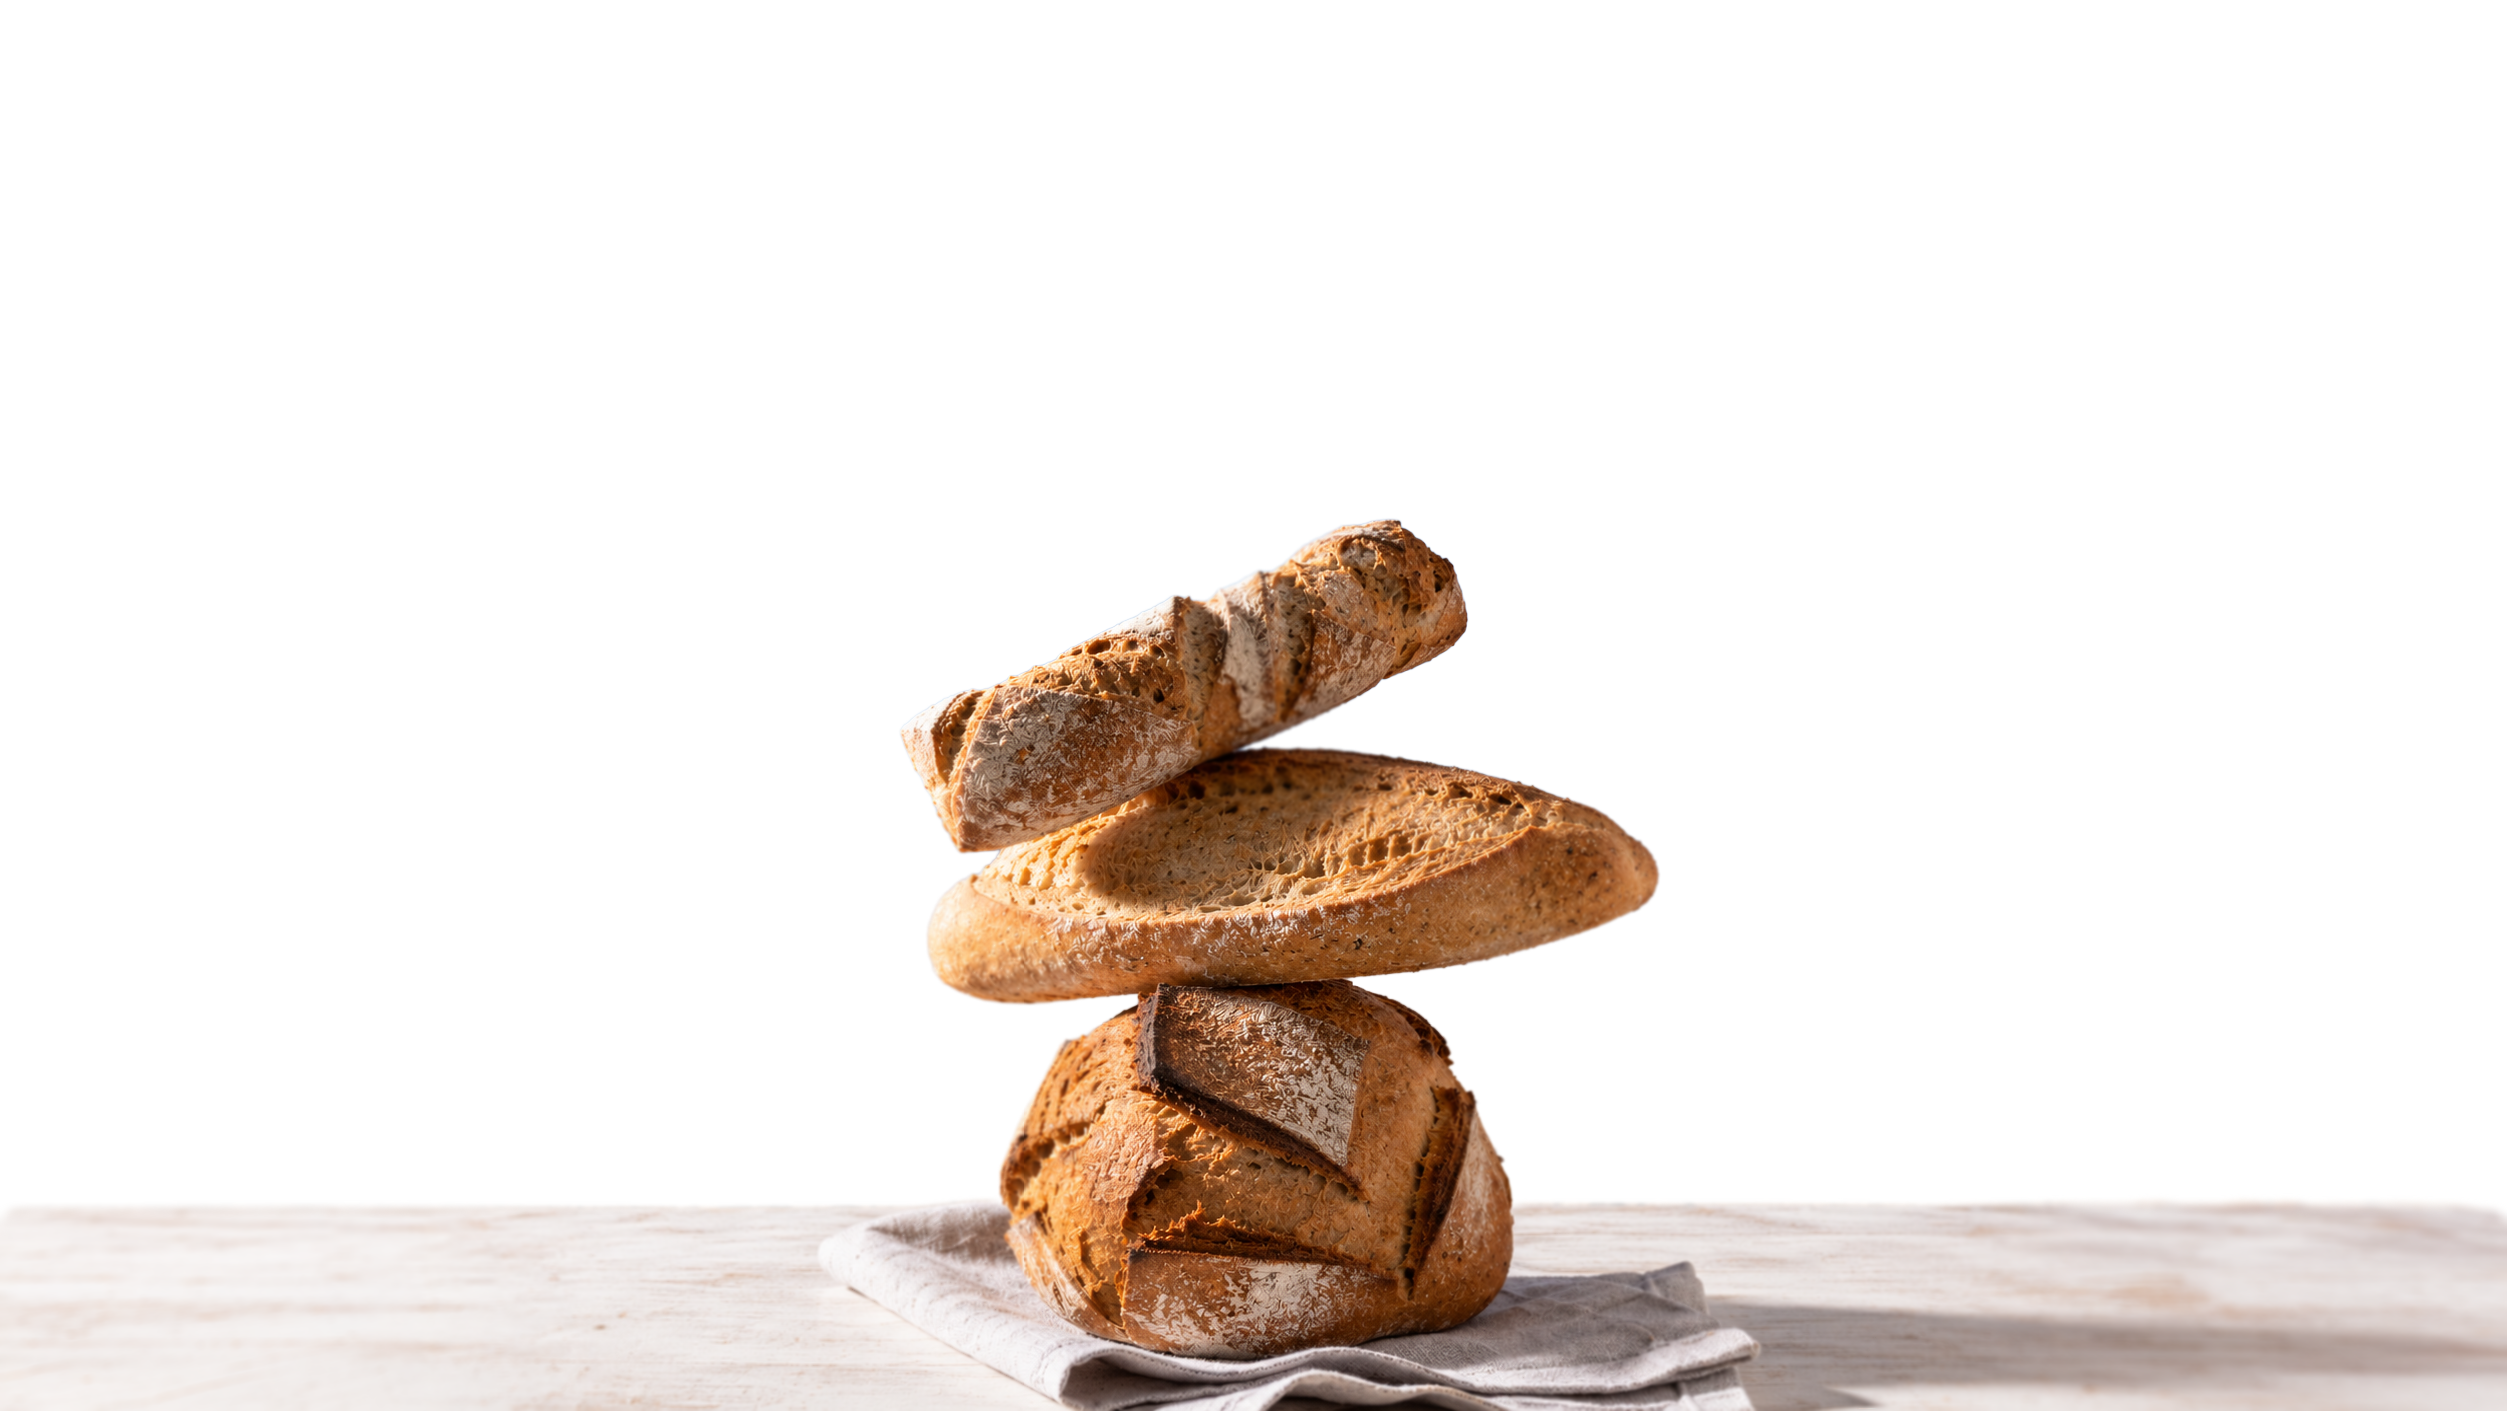
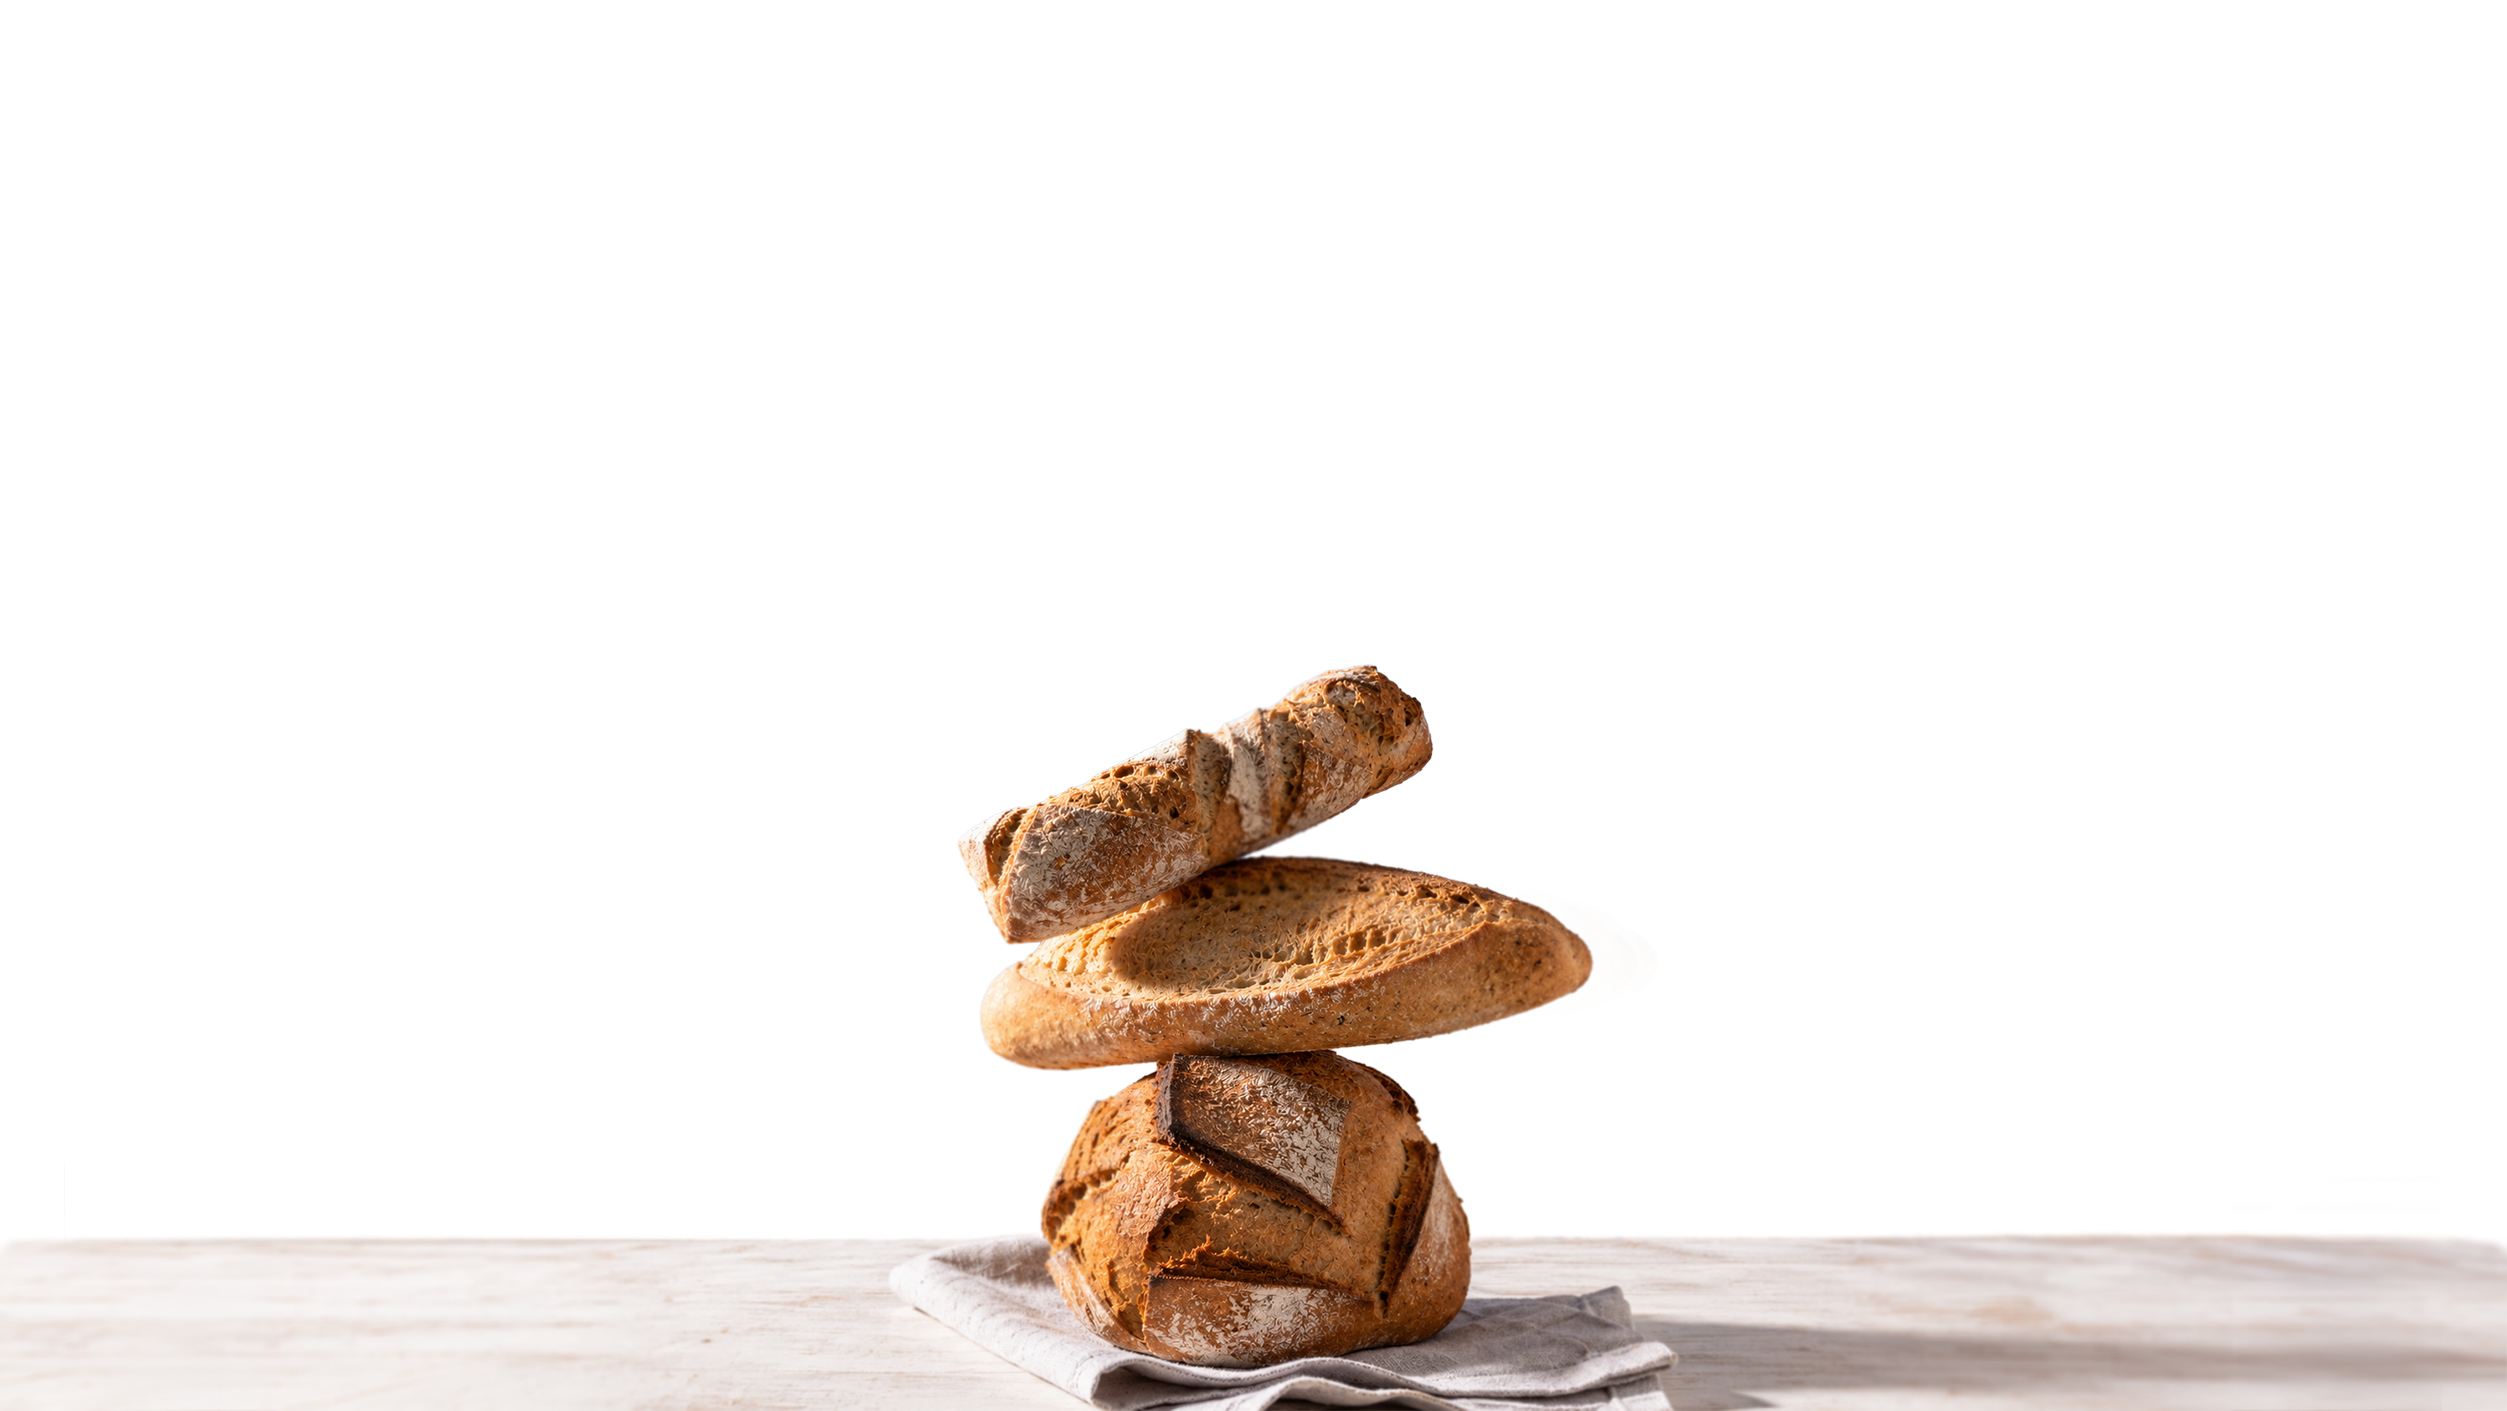
responsive hero

Changed region(s): [[0.0, 0.343, 1.0, 1.0], [0.28, 0.9979, 0.3422, 1.0], [0.1867, 0.9979, 0.2489, 1.0]]

diff --git a/index.html b/index.html
@@ -141,7 +141,8 @@ html.lenis,html.lenis body{height:auto}
         </h1>
       </div>
       <div data-hero-fg="" style="position:absolute;inset:0;transform-origin:50% 50%;will-change:transform;pointer-events:none">
-        <img src="assets/hero-pan.png" alt="Baguette, pan rústico y hogaza de masa madre apilados sobre un paño de lino" style="width:100%;height:100%;object-fit:cover;object-position:50% 100%;display:block">
+        <div aria-hidden="true" style="position:absolute;left:0;right:0;bottom:0;height:calc(100vh * 0.119 * 1.1);background:linear-gradient(90deg,rgb(243,237,234) 0%,rgb(236,229,226) 50%,rgb(210,198,196) 100%)"></div>
+        <img src="assets/hero-pan.png?v=6" alt="Baguette, pan rústico y hogaza de masa madre apilados sobre un paño de lino" style="position:absolute;left:50%;bottom:0;width:calc(100vh * 1.7768);height:auto;max-width:none;transform:translateX(-50%) scale(1.1);transform-origin:50% 100%;-webkit-mask-image:linear-gradient(90deg,transparent 0,#000 7%,#000 93%,transparent 100%);mask-image:linear-gradient(90deg,transparent 0,#000 7%,#000 93%,transparent 100%);display:block">
       </div>
       <a href="#bienvenida" data-hero-scroll="" style="position:absolute;right:clamp(16px,2.4vw,40px);bottom:clamp(16px,2.4vw,40px);z-index:5;display:flex;align-items:center;gap:14px;color:#000;font-size:14px;font-weight:600;letter-spacing:.18em">
         SCROLL
